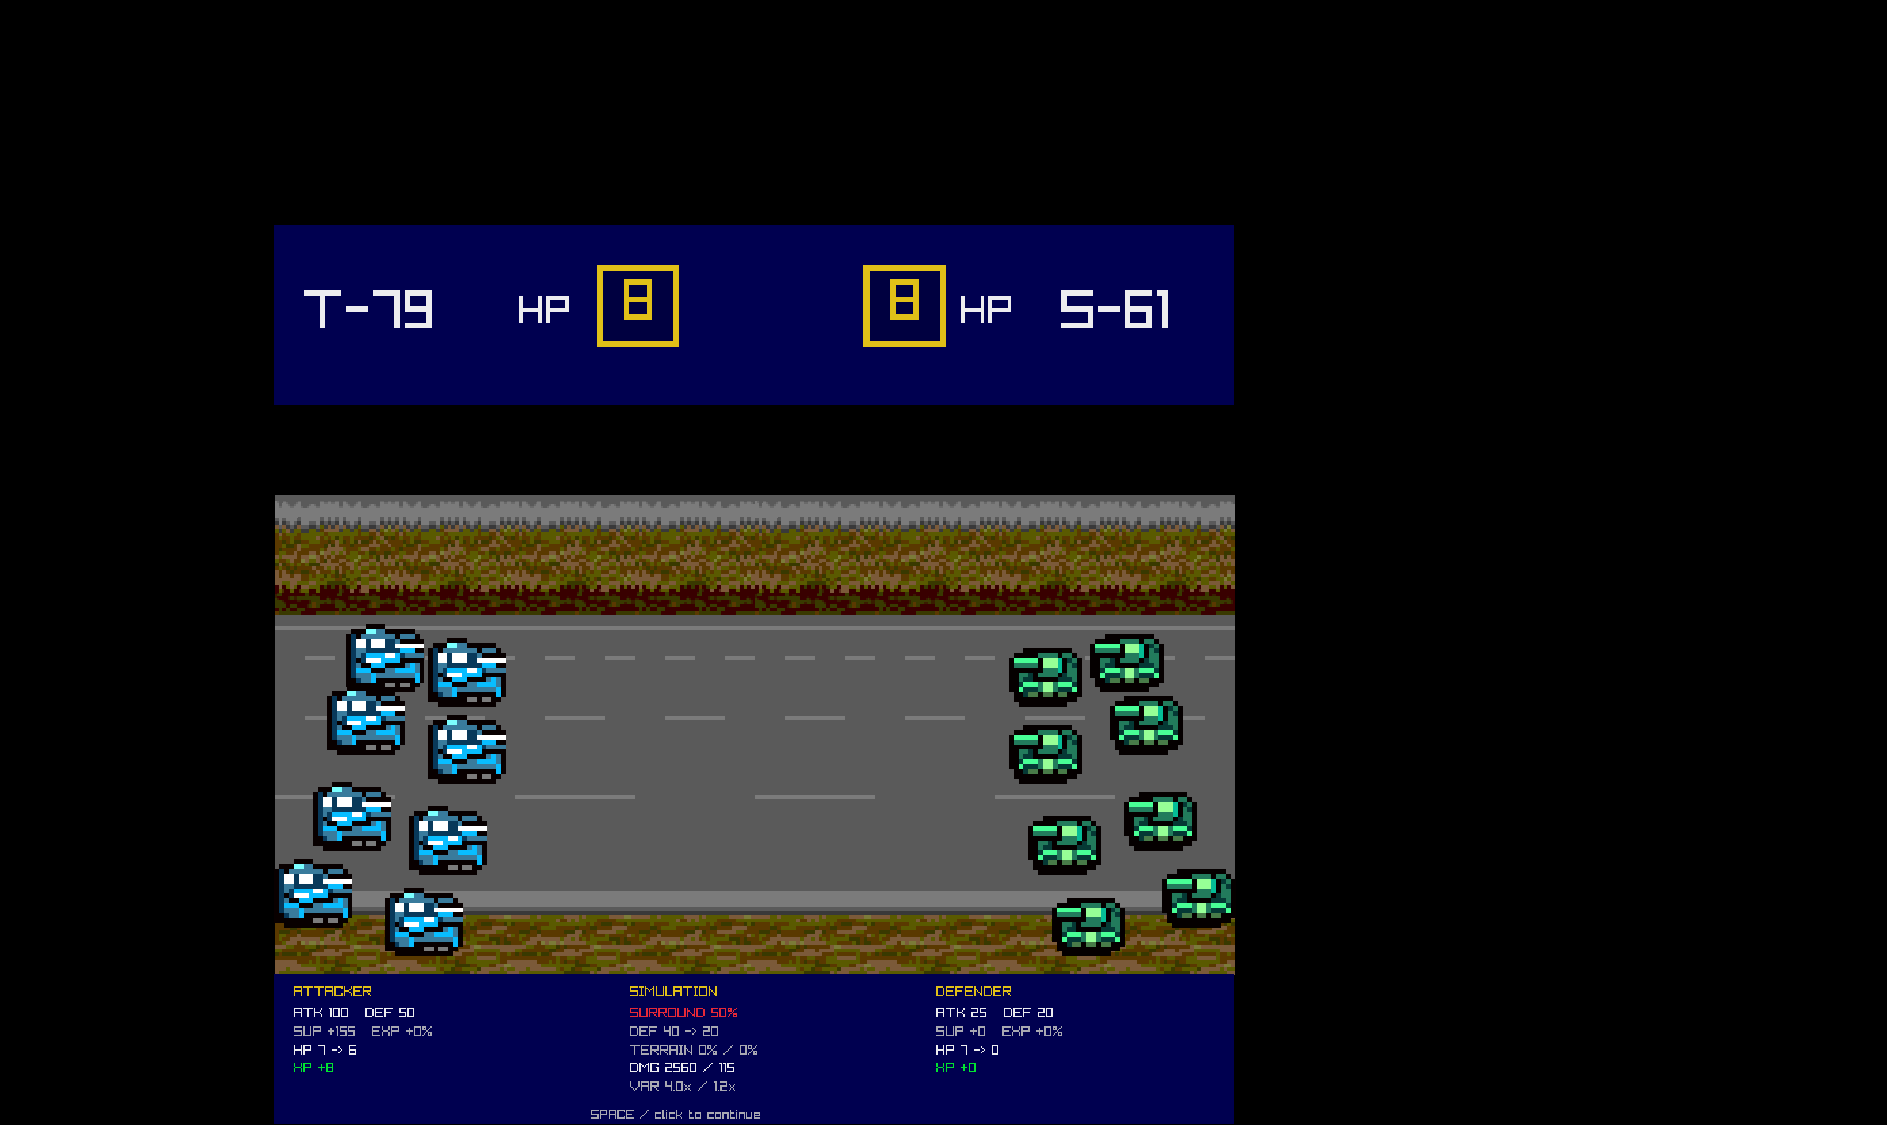
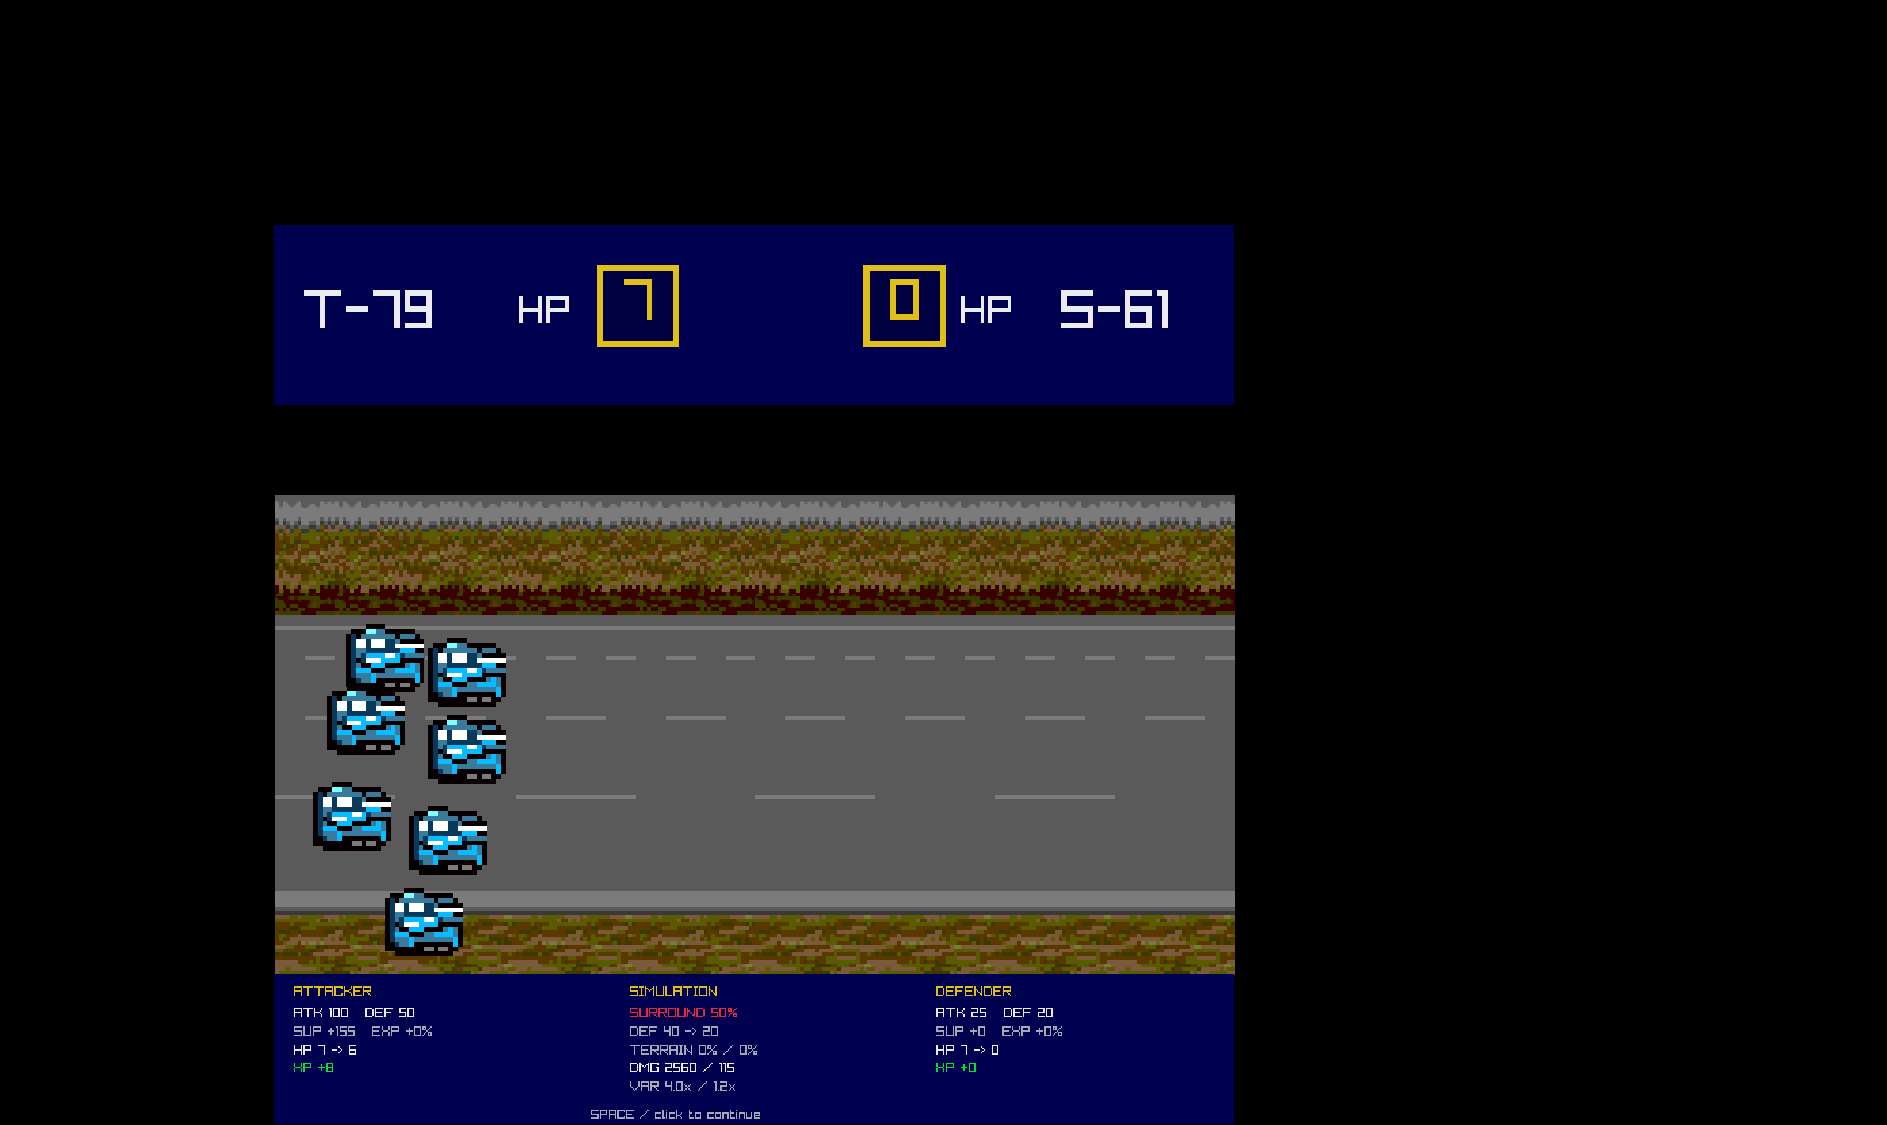
combat: restore ride-in and targeted projectile/explosion animation
Bring back the original materialise beat and simultaneous fire. All units use one projectile and one explosion texture. Projectiles aimed at vehicle slots that are destroyed land exactly on those coordinates; surviving shots scatter deterministically. HP boxes and sprite counts drop to survivors at impact, while the persistent report keeps the initial surround/support/terrain values and the final damage/HP/XP. Fix the black 1px seam by overlapping the two terrain panels by one pixel (transparent-area recapture skipped).

diff --git a/port/src/main.cpp b/port/src/main.cpp
@@ -417,6 +417,7 @@ struct CombatView {
     int mode = 0;
     int panelA = 0, panelB = 0;
     CombatResult r;
+    float t = 0;   // animation clock (ride-in / fire / explosions)
 };
 static std::deque<CombatView> gCombatQueue;
 static CombatView gCv;
@@ -551,7 +552,7 @@ static void drawCombatScreen(const CombatView& v, Texture2D playerTex, Texture2D
     const UnitType& TD = gTypes[D.type];
     const CombatResult& r = v.r;
 
-    // ----- top: names + initial HP (the report below shows the outcome)
+    // ----- top: names + HP (initial, then the post-combat count)
     DrawRectangle((int)playX, 0, (int)playW, (int)topH, NAVY);
     int nameSize = (int)(topH * 0.30f);
     DrawText(TA.name.c_str(), (int)(playX + playW * 0.03f), (int)(topH * 0.34f), nameSize, TXT);
@@ -568,10 +569,17 @@ static void drawCombatScreen(const CombatView& v, Texture2D playerTex, Texture2D
         DrawText(TextFormat("%d", val), (int)(x + s * 0.33f), (int)(y + s * 0.12f),
                  (int)(s * 0.70f), BORDER);
     };
-    hpBox(0.335f, std::clamp(v.hpA0 + 1, 0, 8));
-    hpBox(0.613f, std::clamp(v.hpD0 + 1, 0, 8));
 
-    // ----- middle: static terrain close-ups + initial army
+    float t = v.t;
+    int nA0 = std::clamp(v.hpA0 + 1, 0, 8);   // initial vehicles
+    int nD0 = std::clamp(v.hpD0 + 1, 0, 8);
+    int nA1 = (v.hpA1 > 0) ? std::clamp(v.hpA1 + 1, 0, 8) : 0;  // survivors
+    int nD1 = (v.hpD1 > 0) ? std::clamp(v.hpD1 + 1, 0, 8) : 0;
+    bool impact = t > 2.45f;
+    hpBox(0.335f, impact ? nA1 : nA0);
+    hpBox(0.613f, impact ? nD1 : nD0);
+
+    // ----- middle: terrain close-ups + ride-in + simultaneous fire
     static const float FORM[8][2] = {
         {0.40f, 0.37f}, {0.23f, 0.34f}, {0.40f, 0.53f}, {0.19f, 0.47f},
         {0.36f, 0.72f}, {0.16f, 0.67f}, {0.31f, 0.89f}, {0.08f, 0.83f}
@@ -584,35 +592,125 @@ static void drawCombatScreen(const CombatView& v, Texture2D playerTex, Texture2D
         return Vector2{px + slotX * pan, panY + slotY * pan};
     };
 
-    auto drawPanel = [&](int idx, float x) {
+    auto drawPanel = [&](int idx, float x, float w) {
         if (gCombatPanels.empty() || !gCombatPanels[idx].id) return;
         Texture2D& tex = gCombatPanels[idx];
         DrawTexturePro(tex, {0, 0, (float)tex.width, (float)tex.height},
-                       {x, panY, pan, pan}, {0, 0}, 0, WHITE);
+                       {x, panY, w, pan}, {0, 0}, 0, WHITE);
     };
-    drawPanel(v.panelA, axPanel);
-    drawPanel(v.panelB, dxPanel);
-    if (!ranged && v.panelA != v.panelB)
-        DrawRectangle((int)(dxPanel) - 1, (int)panY, 2, (int)pan, BLACK);
+    if (ranged) {
+        drawPanel(v.panelA, axPanel, pan);
+        drawPanel(v.panelB, dxPanel, pan);
+    } else {
+        // 1px overlap hides the floating-point seam between the two panels
+        drawPanel(v.panelA, axPanel, pan + 1.0f);
+        drawPanel(v.panelB, dxPanel, pan);
+    }
 
-    // The simulation is static: show the initial formations, no ride-in,
-    // no muzzle flashes, no disappearing floating numbers.
-    auto drawArmy = [&](float px, int count, int type, bool mirror) {
+    float fireT = 2.15f, fireDur = 0.35f;
+    float rk = (t > fireT && t < fireT + fireDur)
+                   ? std::sin((t - fireT) / fireDur * 3.14159f)
+                   : 0.0f;
+    float recoilA = -us * 0.20f * rk;
+    float recoilD = us * 0.20f * rk;
+    Color flashA = (t > 2.45f && t < 2.95f) ? Color{255, 150, 150, 255} : WHITE;
+    Color flashD = flashA;
+
+    // original materialise rhythm: arrival at 0.05 + i*0.235 s
+    auto drawArmy = [&](float px, int count, int type, bool mirror,
+                        float nudge, Color flash) {
         if (type < 0 || type >= 24) return;
         Texture2D& bt = mirror ? gUnitSprite[type] : gUnitSpriteFlip[type];
         if (!bt.id) return;
-        Color tint = mirror ? Color{150, 255, 150, 255} : WHITE;
+        Color team = mirror ? Color{150, 255, 150, 255} : WHITE;
+        Color c = {
+            (unsigned char)(team.r * flash.r / 255),
+            (unsigned char)(team.g * flash.g / 255),
+            (unsigned char)(team.b * flash.b / 255),
+            (unsigned char)flash.a
+        };
         Rectangle src = {0, 0, (float)bt.width, (float)bt.height};
+        const float dur = 0.70f;
         for (int i = 0; i < count; ++i) {
+            float arrive = 0.05f + i * 0.235f;
+            float start = arrive - dur;
+            if (t < start) continue;
+            float k = std::clamp((t - start) / dur, 0.0f, 1.0f);
+            float ease = 1.0f - (1.0f - k) * (1.0f - k);
             float sx = mirror ? (1.0f - FORM[i][0]) : FORM[i][0];
             Vector2 dest = panelPoint(px, sx, FORM[i][1]);
+            float startX = mirror ? (float)W + us : -(float)us;
+            float x = startX + (dest.x - startX) * ease;
+            float y = dest.y + std::sin(k * 3.14159f * 2.0f) * us * 0.05f;
+            x += nudge;
             float s = us * 1.3f;
-            DrawTexturePro(bt, src, {dest.x - s / 2, dest.y - s / 2, s, s},
-                           {0, 0}, 0, tint);
+            DrawTexturePro(bt, src, {x - s / 2, y - s / 2, s, s}, {0, 0}, 0, c);
         }
     };
-    drawArmy(axPanel, std::clamp(v.hpA0 + 1, 0, 8), A.type, false);
-    drawArmy(dxPanel, std::clamp(v.hpD0 + 1, 0, 8), D.type, true);
+
+    drawArmy(axPanel, impact ? nA1 : nA0, A.type, false, recoilA, flashA);
+    drawArmy(dxPanel, impact ? nD1 : nD0, D.type, true, recoilD, flashD);
+
+    // ----- simultaneous fire: every surviving shot aims at a killed vehicle
+    // slot when possible, otherwise at a deterministic scatter point.
+    auto scatter = [&](int side, int i) {
+        int h = (i * 73 + side * 41 + 17) % 100;
+        int v = (i * 47 + side * 67 + 23) % 100;
+        float rx = 0.12f + 0.76f * (h / 100.0f);
+        float ry = 0.14f + 0.72f * (v / 100.0f);
+        return panelPoint(side == 0 ? dxPanel : axPanel, rx, ry);
+    };
+
+    Vector2 fromA[8], toA[8], fromD[8], toD[8];
+    int killedD = std::max(0, nD0 - nD1);   // defender vehicles lost
+    int killedA = std::max(0, nA0 - nA1);   // attacker vehicles lost
+    for (int i = 0; i < nA0; ++i) {
+        fromA[i] = panelPoint(axPanel, FORM[i][0], FORM[i][1]);
+        if (i < killedD) {
+            int slot = nD1 + i;
+            toA[i] = panelPoint(dxPanel, 1.0f - FORM[slot][0], FORM[slot][1]);
+        } else {
+            toA[i] = scatter(0, i);
+        }
+    }
+    for (int i = 0; i < nD0; ++i) {
+        fromD[i] = panelPoint(dxPanel, 1.0f - FORM[i][0], FORM[i][1]);
+        if (i < killedA) {
+            int slot = nA1 + i;
+            toD[i] = panelPoint(axPanel, FORM[slot][0], FORM[slot][1]);
+        } else {
+            toD[i] = scatter(1, i);
+        }
+    }
+
+    if (t > fireT && t < fireT + fireDur) {
+        auto fire = [&](Vector2* from, Vector2* to, int count, float nudge) {
+            for (int i = 0; i < count; ++i) {
+                float st = fireT + i * 0.012f;
+                if (t < st) continue;
+                float k = std::clamp((t - st) / fireDur, 0.0f, 1.0f);
+                Vector2 p = {from[i].x + nudge + (to[i].x - from[i].x - nudge) * k,
+                             from[i].y + (to[i].y - from[i].y) * k};
+                if (gVfx[2].id) drawEffect(gVfx[2], p.x, p.y, us * 0.85f, 0.0f, WHITE);
+                else DrawCircleV(p, us * 0.16f, ORANGE);
+                if (k < 0.22f) {
+                    Vector2 m = {from[i].x + nudge, from[i].y};
+                    if (gVfx[1].id) drawEffect(gVfx[1], m.x, m.y, us * 1.0f, 0.0f, WHITE);
+                    else DrawCircleV(m, us * 0.20f, Color{255, 220, 120, 255});
+                }
+            }
+        };
+        fire(fromA, toA, nA0, recoilA);
+        fire(fromD, toD, nD0, recoilD);
+    }
+
+    if (t > 2.45f && t < 3.30f) {
+        float e = (t - 2.45f) * 7.0f;
+        for (int i = 0; i < nA0; ++i)
+            drawExplosion(toA[i].x, toA[i].y, us * 0.70f, e + i * 0.35f);
+        for (int i = 0; i < nD0; ++i)
+            drawExplosion(toD[i].x, toD[i].y, us * 0.70f, e + i * 0.35f);
+    }
 
     // ----- bottom: persistent simulation report
     DrawRectangle((int)playX, (int)botY, (int)playW, (int)botH, NAVY);
@@ -914,6 +1012,7 @@ int main(int argc, char** argv) {
             int td = terrainAt(gMission, gMission.units[d].x, gMission.units[d].y);
             gCv.panelA = combatPanelFor(ta, td, gCv.mode > 0, true);
             gCv.panelB = combatPanelFor(td, ta, gCv.mode > 0, false);
+            gCv.t = (argc > 5) ? (float)std::atof(argv[5]) : 2.70f;
             for (int k = 0; k < 6; ++k) {
                 BeginDrawing();
                 drawCombatScreen(gCv, playerTex, enemyTex);
@@ -958,12 +1057,17 @@ int main(int argc, char** argv) {
     int frame = 0;
     while (!WindowShouldClose()) {
         if (gCv.active) {
+            gCv.t += GetFrameTime();
             BeginDrawing();
             drawCombatScreen(gCv, playerTex, enemyTex);
             EndDrawing();
             if (IsKeyPressed(KEY_SPACE) || IsMouseButtonPressed(MOUSE_BUTTON_LEFT)) {
-                gCv.active = false;
-                startNextCombat();
+                if (gCv.t < 3.60f) {
+                    gCv.t = 3.60f;      // first input skips to the result
+                } else {
+                    gCv.active = false;
+                    startNextCombat();
+                }
             }
             continue;
         }

diff --git a/port/README.md b/port/README.md
@@ -53,12 +53,12 @@ Headless AI demo (prints 3 rounds of enemy actions, including ranged fire):
 port/build/nectaris.exe assets assets/maps/all_units_test.json --demo
 ```
 
-Combat report screenshot (last argument: `0` = direct layout, `1` = ranged
-layout; the seconds argument is kept for compatibility and no longer animates):
+Combat screenshot (seconds = animation phase: `1.2` ride-in, `2.3` projectiles,
+`2.7` explosions, `3.6` final report; last argument `0` = direct, `1` = ranged):
 
 ```powershell
-port/build/nectaris.exe assets assets/maps/all_units_test.json --combatshot direct.png 1.4 0
-port/build/nectaris.exe assets assets/maps/all_units_test.json --combatshot ranged.png 1.4 1
+port/build/nectaris.exe assets assets/maps/all_units_test.json --combatshot direct.png 2.7 0
+port/build/nectaris.exe assets assets/maps/all_units_test.json --combatshot ranged.png 2.7 1
 ```
 
 ## Combat simulation
@@ -222,16 +222,24 @@ Every resolved attack switches to a battle screen modeled on the original:
   **128×128 logical (256×256 pixel) panels** side by side.
 * **top bar**: both unit names and the yellow **HP boxes** (initial HP + 1).
 * **middle**: the two original combat terrain close-ups, drawn at native
-  aspect (terrain texture fills every pixel - no black bands).
+  aspect (terrain texture fills every pixel - no black bands). The PNGs are
+  opaque (their transparent areas were pre-filled) and the two panels overlap
+  by one pixel to hide the seam.
   Each side shows its **initial formation** using the per-unit horizontal
   sprite (`assets/units/unit_XX/horizontal.png`), blue for the player and the
   same sprite flipped + tinted green for the enemy.
 * **ranged layout**: indirect/ranged battles open a wider black gap between the
   two terrain panels (the panels shrink slightly so the pair still fits the
   playfield); direct battles stay edge-to-edge.
-* **static report (no animation)**: the original fades its numbers out; the port
-  keeps a permanent report in the bottom bar instead. It shows the simulation
-  inputs and the final resolve:
+* **ride-in**: vehicles roll in from the screen edges to their staggered 2×4
+  formation slots at the original `0.05 + i×0.235 s` beats.
+* **simultaneous fire**: both sides fire at once, using one projectile texture
+  and one explosion texture for every unit. The killed vehicle slots
+  (`finalCount .. initialCount-1`) are targeted exactly, so their explosions
+  land on the right coordinates; all remaining shots scatter deterministically
+  across the opposing panel. HP boxes drop to the surviving vehicle count.
+* **persistent report (no disappearing numbers)**: the bottom bar stays visible
+  during and after the animation and shows the simulation inputs and resolve:
   * **attacker**: attack / own defence, support bonus, experience bonus,
     HP before → after, XP gained;
   * **simulation**: `SURROUND 0%` or `50%` with the defender's defence before
@@ -239,7 +247,8 @@ Every resolved attack switches to a battle screen modeled on the original:
     attacker, and both variance multipliers;
   * **defender**: counter attack / defence, support, experience, HP before →
     after, XP gained.
-* `SPACE` / click closes the report and returns to the map.
+* `SPACE` / click skips the animation to the result; a second press returns to
+  the map.
 
 Panel selection is the original algorithm (`FUN_00415790`): the first panel is
 `table[remap[atk]*16 + remap[def] + 8]`, the second
